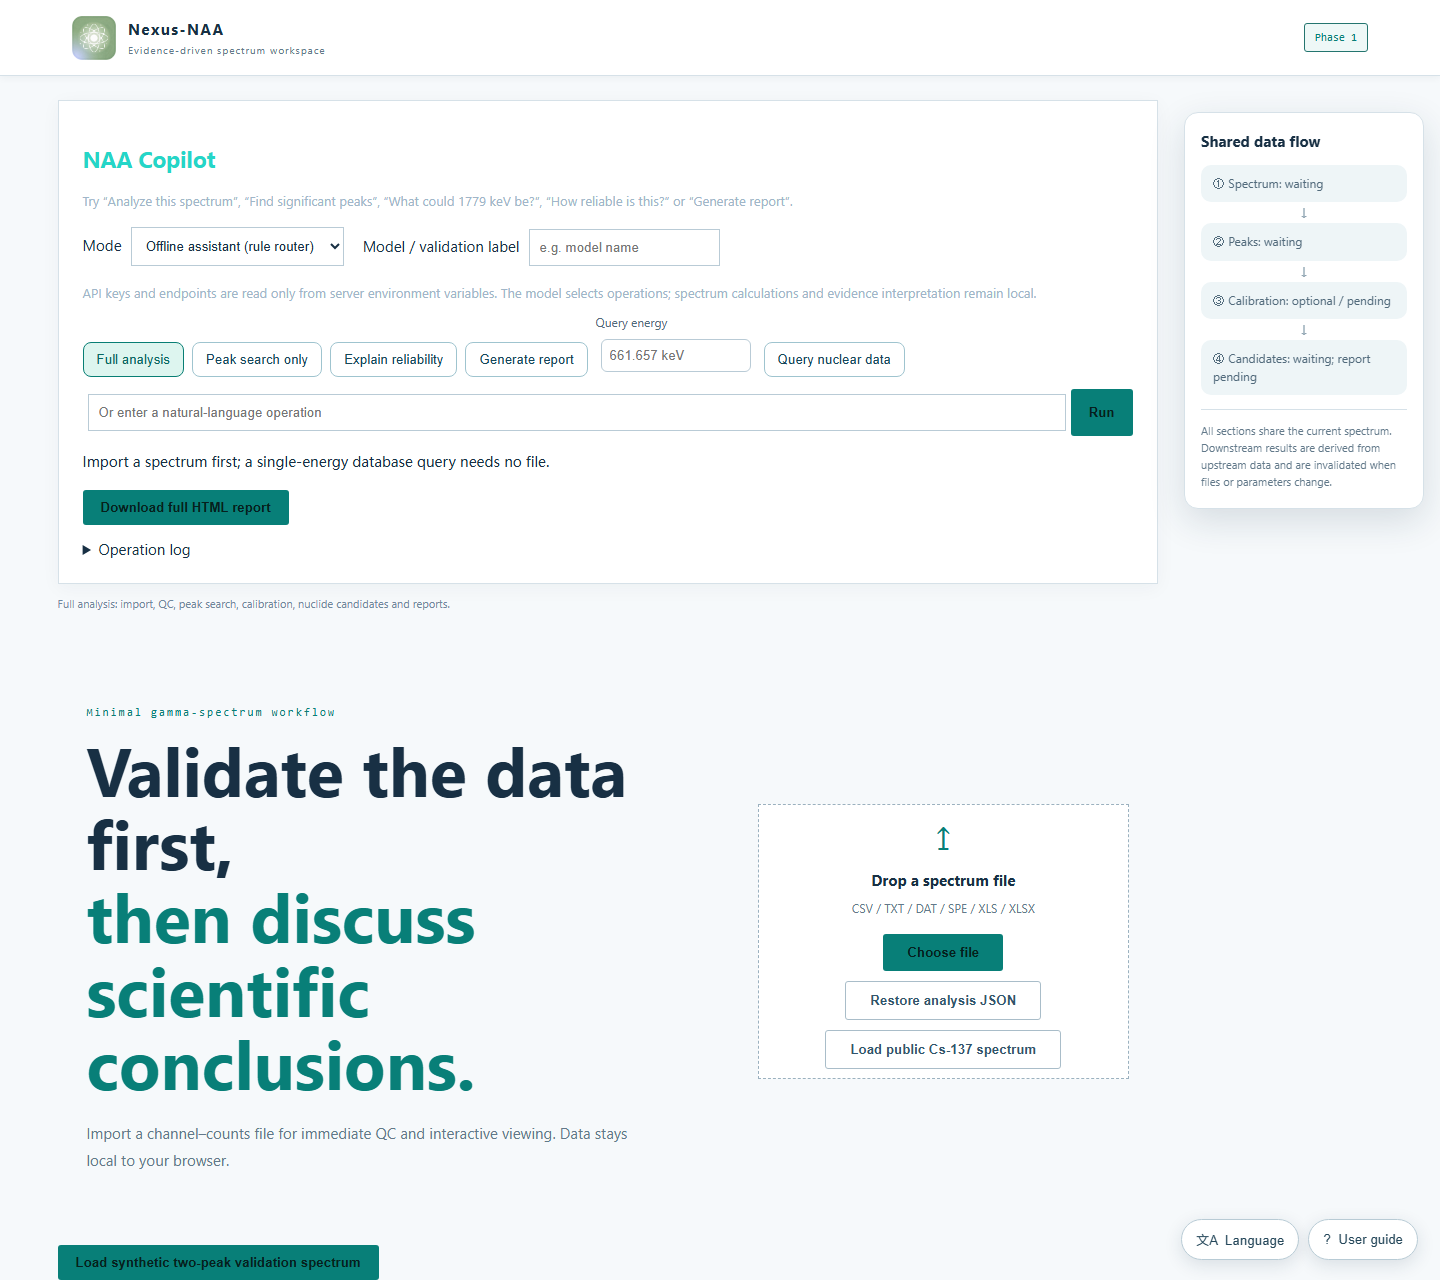
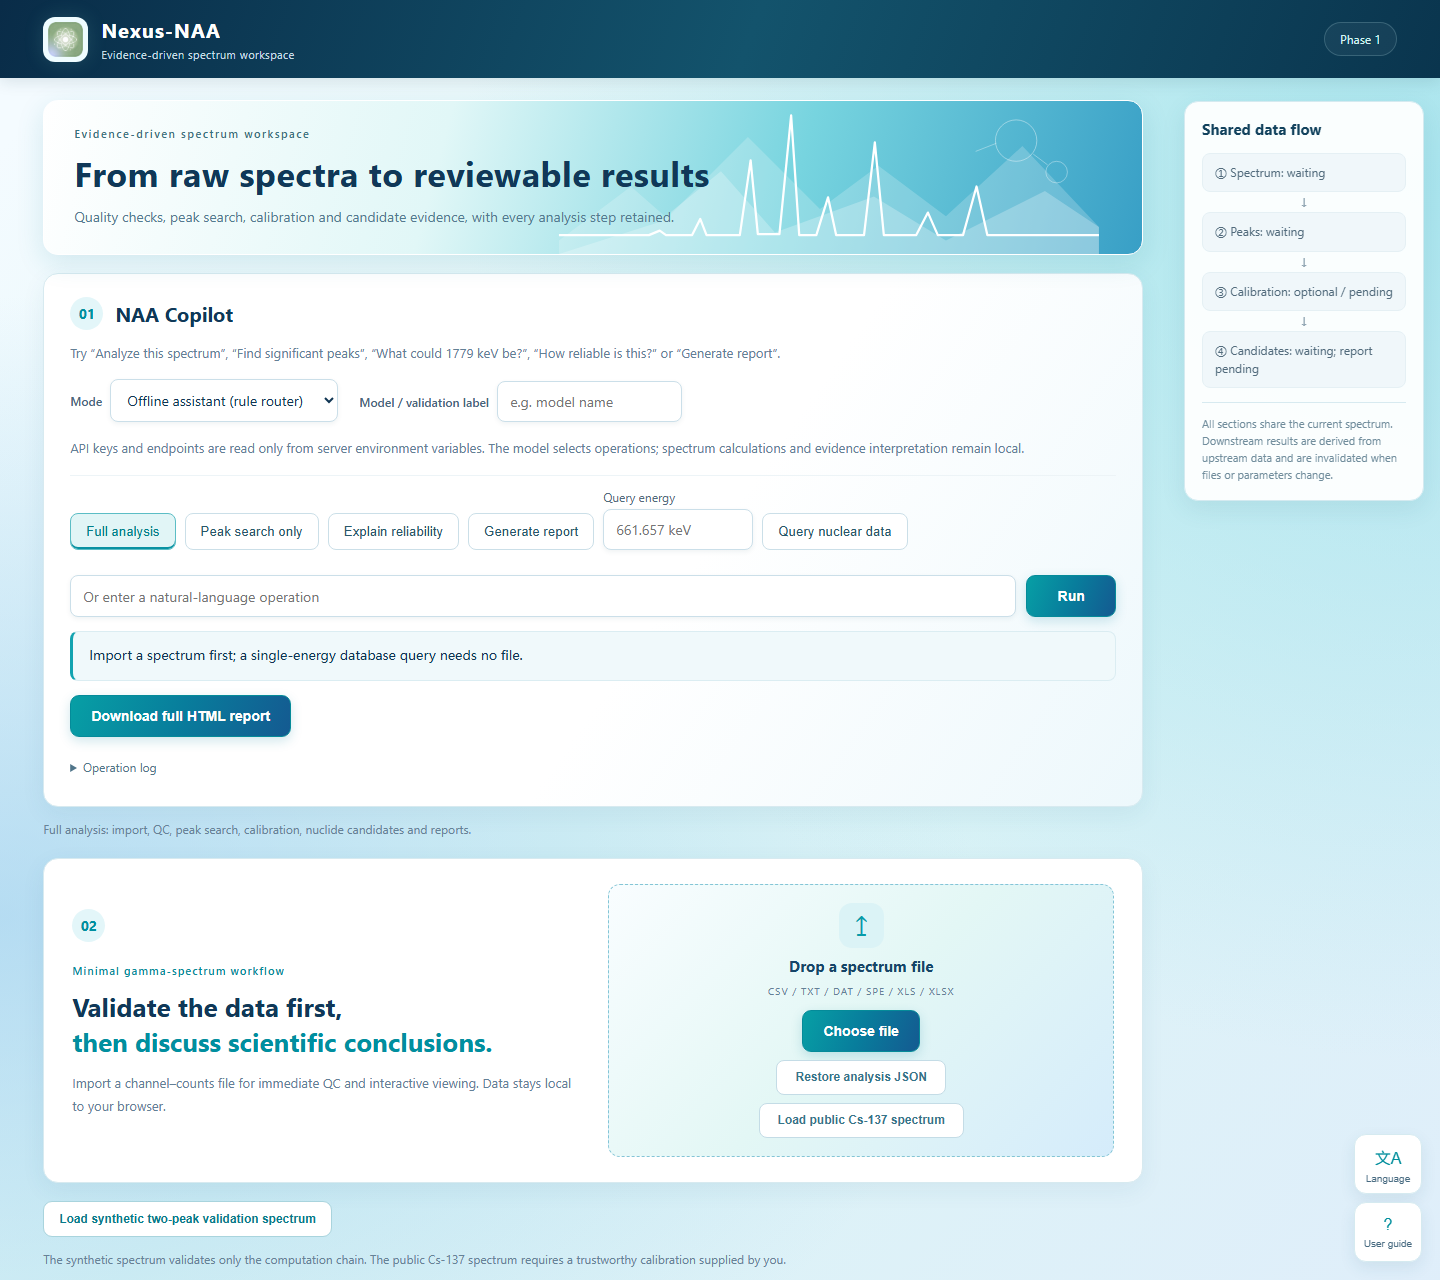
Refresh visual theme and bilingual workbench previews

diff --git a/light-theme.css b/light-theme.css
@@ -25,3 +25,41 @@ body{background:#f6f9fb;color:var(--text)}header{background:#fff;border-color:va
 }
 @media(prefers-reduced-motion:reduce){.data-flow{transition:none}}
 .brand-icon{display:block;width:44px;height:44px;object-fit:contain;flex-shrink:0}
+/* Presentation only: scientific calculations and task visibility remain unchanged. */
+:root{--bg:#f0f8fc;--panel:#fff;--line:#d7eaf0;--cyan:#058b99;--blue:#14638e;--text:#103553;--muted:#638096;--warn:#b46a16}
+body{background:radial-gradient(ellipse at 92% 20%,#cceff2a0,transparent 42%),radial-gradient(ellipse at 0 70%,#d6edf8b0,transparent 45%),#f3f9fc;font-family:"Segoe UI","Microsoft YaHei",sans-serif;font-size:14px}
+header{height:78px;background:linear-gradient(110deg,#0d314c,#123c56 65%,#0c3048);border:0;box-shadow:0 3px 15px #173d4d22;padding:0 3vw;color:#fff}
+.brand{gap:13px}.brand-icon{width:45px;height:45px;background:#effcff;border-radius:12px;padding:5px;box-shadow:0 0 20px #8ae5d326}.brand b{font-size:20px;letter-spacing:1px}.brand small{font-size:11px;color:#c6dce6;letter-spacing:.4px}.phase{border:1px solid #719caa60;background:#ffffff0c;color:#d3f2f3;border-radius:30px;padding:8px 15px;font:12px "Segoe UI",sans-serif}
+main{width:min(1400px,92vw);margin:0 auto;padding-top:22px}
+.workbench-banner{position:relative;overflow:hidden;min-height:155px;background:linear-gradient(105deg,#fff 5%,#e9f8fa 46%,#8bd5e3);border:1px solid #fff;border-radius:15px;padding:25px 30px;box-shadow:0 8px 24px #25667b12}
+.banner-copy{position:relative;z-index:1;width:70%}.banner-copy .eyebrow{font:600 11px "Segoe UI",sans-serif;letter-spacing:1.5px;margin:0 0 10px;color:#387080}.banner-copy h1{margin:0 0 10px;font-size:clamp(23px,2.6vw,34px);line-height:1.3;letter-spacing:.5px;color:#103858}.banner-copy>p:last-child{margin:0;font-size:14px;line-height:1.65;color:#537b91}.banner-spectrum{position:absolute;width:57%;height:100%;right:0;bottom:0;pointer-events:none}
+.copilot,.chart-card,.status-card,.stats-card,.control-card,.peaks-card,.identify-card{border:1px solid var(--line);border-radius:15px;box-shadow:0 7px 24px #1f617511;background:linear-gradient(125deg,#fff,#fff 75%,#f8fcfd)}
+.copilot{padding:23px 26px;margin-top:18px}.copilot h2,.control-card h2,.peaks-card h2,.identify-head h2,.card-title h2{color:#103858;font-size:20px;line-height:1.45}.copilot h2{margin:0 0 12px;display:flex;align-items:center;gap:12px}.copilot h2::before,.hero>div:first-child::before,.control-card>h2::before,.peaks-card h2::before,.identify-head h2::before{display:inline-grid;place-items:center;flex-shrink:0;width:33px;height:33px;border-radius:50%;background:#e3f6f9;color:#008fa0;font:700 14px "Segoe UI",sans-serif;letter-spacing:0;vertical-align:middle;margin-right:8px}
+.copilot h2::before{content:"01";margin-right:0}.hero>div:first-child::before{content:"02";margin-bottom:10px}.control-card>h2::before{content:"03"}.peaks-card h2::before{content:"04"}.identify-head h2::before{content:"05"}
+.copilot p{color:var(--muted);line-height:1.7;margin:10px 0}.model-controls{gap:16px}.model-controls label{font-size:12px;font-weight:600;color:#47657b}.copilot input,.copilot select,.control-card input[type=number],.control-card select,.control-card textarea,.match-controls input,.direct-query input,.database-tools input{border:1px solid #cbdfe9;border-radius:8px;background:#fff;color:var(--text);padding:10px 12px;font:14px "Segoe UI","Microsoft YaHei",sans-serif;box-shadow:0 2px 5px #153e5610;min-height:40px}
+input:focus-visible,select:focus-visible,textarea:focus-visible,button:focus-visible,summary:focus-visible,a:focus-visible{outline:3px solid #09a6b260;outline-offset:3px}
+.quick-actions{padding:13px 0;border-top:1px solid #edf4f7;margin-top:16px;gap:9px}.quick-actions button{border-color:#cbdfe8;border-radius:8px;color:#27576b;padding:10px 15px;transition:background .15s,border-color .15s}.quick-actions button[aria-pressed=true]{color:#007f8a;background:#e1f5f6;border-color:#5bbdc5;box-shadow:inset 0 -2px #0992a2}
+.quick-actions input{margin:0}.copilot form{gap:10px}.copilot form input{margin:0}.primary,.drop button:not(.ghost){background:linear-gradient(115deg,#14aabc,#007b8c);border:1px solid #058b99;color:#fff;border-radius:9px;min-height:42px;padding:11px 20px;box-shadow:0 4px 10px #078e9d26;font-weight:600;font-size:14px}.primary:hover,.drop button:not(.ghost):hover{background:linear-gradient(115deg,#049cac,#006c7e)}.primary.secondary{background:linear-gradient(115deg,#248baa,#14638e);border-color:#247b9d}.copilot form .primary{min-width:90px}
+.copilot pre#answer{background:#f0f9fb;border:1px solid #dbedf2;border-left:3px solid #13a3b0;border-radius:8px;padding:12px 16px;font-size:13px;line-height:1.8;margin:14px 0}.copilot details{color:#50758a;font-size:12px}.copilot details summary{cursor:pointer;padding:8px 0}.manual-panel{border-radius:10px;background:#f4fafc}.manual-panel textarea{border-radius:8px}
+.hero{background:#fff;border:1px solid var(--line);border-radius:15px;padding:25px 28px;gap:30px;margin:18px 0;box-shadow:0 7px 24px #1f617511;grid-template-columns:1fr 1fr;align-items:center}.hero h1{font-size:26px;line-height:1.35;margin:6px 0 12px;color:#103858}.hero h1 span{color:#008f9f}.hero p:not(.eyebrow){font-size:13px;line-height:1.75}.hero .eyebrow{font:600 11px "Segoe UI",sans-serif;letter-spacing:1px}.drop{border:1px dashed #84c5d6;border-radius:12px;background:linear-gradient(130deg,#f6fcff,#eef9fa);min-height:260px;padding:18px;gap:8px}.upload-icon{background:#dbf3f6;width:45px;height:45px;border-radius:13px;display:grid;place-items:center;font-size:28px;color:#079baa}.drop b{color:#164568;font-size:15px}.drop span{font-size:10px;letter-spacing:1px}.drop button{margin-top:4px;font-size:12px;min-height:35px;padding:8px 18px}.drop .ghost{background:#fff;border:1px solid #c4dce6;color:#36758b;border-radius:8px}.drop.drag{background:#e0f6f7;transform:none}
+#syntheticDemo{font-size:12px;min-height:36px;background:#fff;color:#087b8c;box-shadow:none;border-color:#a9d4dd;padding:8px 15px}#taskHint:empty{display:none}.method-note{color:#668297;font:12px/1.75 "Segoe UI","Microsoft YaHei",sans-serif}
+.workspace{border:0;padding-top:18px}.toolbar{background:#eaf7fa;border:1px solid #cce6ed;border-radius:9px;padding:12px 16px;gap:12px}.toolbar b{font-size:13px}.toolbar small{font-size:11px}.dot{box-shadow:0 0 0 4px #049fab15;background:#049fab}button.tool{border-radius:7px;background:#fff;border:1px solid #cbdfe8;color:#357086;font:12px "Segoe UI",sans-serif;padding:9px 12px}.tool:disabled{opacity:.5}.grid{grid-template-columns:minmax(0,1fr) 275px;gap:16px}.chart-card,.status-card,.stats-card{padding:21px}.card-title small,article>small{font:600 10px "Segoe UI",sans-serif;letter-spacing:1.6px;color:#058c9e}.card-title h2{font-size:18px}.legend{font-size:11px}.canvas-wrap{height:365px}.hint{color:#7891a0}.status b{font-size:18px}.status>span{background:#def5f2}.check span{color:#365971;font-size:12px}.check em{font-size:10px}.stats{border:1px solid var(--line);border-radius:10px;overflow:hidden}.stats div{padding:13px 10px;background:#f7fcfd}.stats b{font:600 17px "Segoe UI",sans-serif;color:#15496a}.status-card,.stats-card{margin-bottom:16px}
+.analysis-grid{gap:16px;margin-top:16px}.control-card{padding:22px}.control-card label{font-size:12px;color:#466b80;align-items:center;gap:12px;margin:16px 0}.control-card input[type=number]{width:125px}.control-card input[type=checkbox]{accent-color:var(--cyan);width:17px;height:17px}.control-card select{max-width:100%;min-width:100px}.control-card textarea{font:12px/1.7 Consolas,monospace;min-height:118px}.control-card h2{margin:6px 0 14px}.cal-result{margin:14px 0 0;display:block;font:12px/1.7 "Segoe UI",sans-serif;color:#4b7d8e}.auto-cal{flex-wrap:wrap}.auto-cal label{min-width:180px}.auto-cal .tool{white-space:normal;max-width:100%}
+.peaks-card,.identify-card{margin:18px 0;padding:22px}.table-head{gap:15px;flex-wrap:wrap}.table-head h2{margin:6px 0 16px}.table-head h2 span{background:#e5f6f8;border:0;color:#008b99;font:600 12px "Segoe UI",sans-serif}.table-wrap{border:1px solid #d7eaf0;border-radius:9px;margin-top:8px}table{min-width:720px}th,td{font:12px/1.6 "Segoe UI",sans-serif;padding:12px 13px}th{background:#eaf6f8;color:#1a4e68;font-weight:600}td{color:#365c74;border-color:#e3eef3}tbody tr:nth-child(even){background:#f8fcfd}tbody tr:hover{background:#eff9fc}.no-data{color:#7c96a6;padding:36px}.identify-head{gap:20px;flex-wrap:wrap}.match-controls{flex-wrap:wrap}.direct-query{background:#f1f9fb;border-radius:8px;border:1px solid #d9ecf2;padding:12px;font-size:12px;flex-wrap:wrap}.direct-query span{font-size:10px}.match-group{border-radius:9px;overflow:visible;border-color:#d7eaf0}.match-group h3{background:#edf8fa;font:600 13px "Segoe UI",sans-serif;border-radius:9px 9px 0 0;border-color:#d7eaf0}.candidate{font:12px/1.65 "Segoe UI",sans-serif;grid-template-columns:120px 100px 65px 125px minmax(0,1fr);gap:10px;border-color:#e5f0f4}.candidate strong{color:#17455e}.candidate small{color:#66859a}.candidate a,.evidence-footer a{color:#008895}.candidate .status{border-radius:5px;font-size:11px}.candidate .supported{background:#ebfaf6;color:#008879;border-color:#8accc3}.candidate .tentative{color:#256eaa;border-color:#abcddd;background:#f1f8fc}.candidate .conflicting,.candidate .insufficient_evidence{color:#a65f11;background:#fff9ee;border-color:#e3c498}.evidence-footer{gap:10px;flex-wrap:wrap;font:11px "Segoe UI",sans-serif}
+.empty{margin:18px 0 30px;padding:30px 20px;background:#ffffffa0;border:1px dashed #c4e1eb;border-radius:14px;font-size:13px;color:#6e8e9f}.empty>span{background:#e4f4f8;border-radius:50%;width:38px;height:38px;display:grid;place-items:center;color:#1596a4;font-size:11px}.empty i{border-color:#c7e2eb;width:35px}
+.data-flow{top:101px;border-color:#d4eaf0;border-radius:14px;padding:17px;background:#ffffffee;box-shadow:0 8px 25px #1f617518}.data-flow .flow-header b{color:#13435e}.data-flow .flow-steps span{font-size:12px;background:#f0f7fa;border:1px solid #e5f0f4;border-radius:8px}.data-flow .flow-steps span.ready{background:#e1f5f3;border-color:#c1e8e2;color:#07786f}.data-flow p{color:#718d9c}.corner-tools{right:18px;bottom:18px;flex-direction:column;gap:8px}.corner-tools>button{border-radius:12px;width:68px;min-height:60px;padding:8px;font-size:16px;color:#008e9c;border:1px solid #d5eaf0;box-shadow:0 6px 16px #23647718}.corner-tools span{display:block;margin:4px 0 0;font-size:10px;color:#486b81}.corner-menu{right:78px;bottom:65px}.flow-toggle{border-radius:10px;color:#008794;border-color:#b8dce6}
+.guide-dialog{border:1px solid #d3e9ef;border-radius:15px;box-shadow:0 25px 70px #0b34484d}.guide-dialog::backdrop{background:#0e344e66;backdrop-filter:blur(3px)}.guide-head{background:linear-gradient(110deg,#f6fcfd,#eaf7fa);border-color:#d7eaf0}.guide-head h2{font-size:20px;color:#164666}.guide-head button{color:#527b8e}.guide-dialog h3{font-size:15px}.guide-dialog p,.guide-dialog li{font-size:13px}.database-table-wrap th{background:#eaf6f8}.database-table-wrap a{color:#008799;text-underline-offset:3px}.database-tools{background:#f8fcfd}.toast{z-index:60;border-radius:10px}.tip{border-radius:7px;border-color:#aecfdd}footer{border-color:#d8eaf1;color:#6f8a9b;padding:20px 90px 25px;font-size:11px}footer a{color:#078996;text-underline-offset:3px}
+@media(min-width:1200px){main{width:min(1400px,calc(100vw - 340px));margin-left:max(3vw,calc((100vw - 1740px)/2));margin-right:auto}}
+@media(max-width:1199px){.data-flow{top:auto;bottom:160px}.flow-toggle{bottom:160px}.banner-copy{width:78%}.banner-spectrum{opacity:.65}.grid{grid-template-columns:minmax(0,1fr) 255px}.candidate{grid-template-columns:100px 80px 60px 120px minmax(0,1fr)}}
+@media(max-width:850px){header{height:70px;padding:0 4vw}.brand b{font-size:17px}.brand small{font-size:9px}.phase{font-size:10px;padding:6px 10px}main{width:92vw;padding-top:16px}.workbench-banner{padding:22px;min-height:150px}.banner-copy{width:90%}.banner-spectrum{opacity:.35;width:75%}.banner-copy h1{font-size:25px}.banner-copy>p:last-child{font-size:12px}.copilot{padding:20px}.model-controls{align-items:stretch}.model-controls label{display:flex;flex-direction:column;flex:1;min-width:180px}.model-controls input,.model-controls select{margin:5px 0}.quick-actions label{width:100%}.quick-actions input{width:100%}.hero{grid-template-columns:1fr;gap:16px;padding:23px}.hero h1{font-size:24px}.drop{min-height:240px}.grid{grid-template-columns:1fr}.grid>aside{display:grid;grid-template-columns:1fr 1fr;gap:16px}.status-card,.stats-card{margin-bottom:0}.canvas-wrap{height:330px}.candidate{grid-template-columns:1fr 1fr}.control-card,.peaks-card,.identify-card{padding:20px}.empty{gap:10px;flex-wrap:wrap}.empty p{flex-basis:100%;text-align:center;order:-1}.empty i{width:22px}.corner-tools{right:10px;bottom:12px}.corner-tools>button{width:54px;min-height:54px}.corner-tools span{display:block}.corner-menu{right:64px;bottom:55px}}
+@media(max-width:520px){.brand-icon{width:36px;height:36px}.brand small{letter-spacing:0}.phase{max-width:105px;text-align:center}.grid>aside{grid-template-columns:1fr}.copilot h2{font-size:18px}.copilot form{gap:6px}.copilot form .primary{min-width:62px;padding:10px}.quick-actions button{flex:1;padding:10px;font-size:12px}.toolbar{align-items:stretch;flex-direction:column}.toolbar>div:last-child{display:flex;flex-wrap:wrap;gap:6px}.toolbar .tool{margin:0}.card-title{flex-wrap:wrap;gap:8px}.control-card label{grid-template-columns:minmax(0,1fr) auto}.control-card select{max-width:200px;font-size:12px}.control-card input[type=number]{width:90px}.auto-cal select{max-width:100%}.control-card>h2,.peaks-card h2,.identify-head h2{font-size:18px}.table-head .tool{margin:3px 3px 3px 0}.match-controls input{width:100px}.database-tools{padding:16px}.guide-head{padding:16px}.data-flow{bottom:144px}.flow-toggle{bottom:144px}footer{padding:18px 65px 25px 18px;line-height:1.8}}
+/* Stronger cyan-to-blue accents; keep data surfaces close to white. */
+body{background:radial-gradient(ellipse at 100% 12%,#8edce9a6,transparent 48%),radial-gradient(ellipse at 0 62%,#99cceea0,transparent 48%),linear-gradient(135deg,#f4fbff 5%,#dbf5f5 48%,#e0edfb 100%)}
+header{background:linear-gradient(110deg,#092c48 0%,#13536c 52%,#0a354e 100%)}
+.workbench-banner{background:linear-gradient(105deg,#fff 0%,#e1f7f7 36%,#77d4df 68%,#389fc6 100%);box-shadow:0 8px 28px #167d9824}
+.copilot,.chart-card,.status-card,.stats-card,.control-card,.peaks-card,.identify-card{background:linear-gradient(125deg,#fff 0%,#fff 58%,#edf8fc 100%)}
+.drop{background:linear-gradient(135deg,#f9fdff 0%,#e3f7f5 50%,#d5ecfb 100%)}
+.primary,.drop button:not(.ghost){background:linear-gradient(110deg,#079fa5 0%,#087d9c 50%,#145a91 100%);box-shadow:0 4px 12px #087d9c30}
+.primary:hover,.drop button:not(.ghost):hover{background:linear-gradient(110deg,#078c90 0%,#066d8b 50%,#104b7d 100%)}
+.primary.secondary{background:linear-gradient(110deg,#1592a7,#215e9b)}
+@media(prefers-reduced-motion:reduce){*,*::before,*::after{transition:none!important;scroll-behavior:auto!important}}

diff --git a/index.html b/index.html
@@ -7,6 +7,7 @@
 <body>
   <header><div class="brand"><img class="brand-icon" src="assets/nexus-naa-skill-icon.png" width="44" height="44" alt="Nexus-NAA"><div><b>Nexus-NAA</b><small>证据驱动能谱工作区</small></div></div><span class="phase" id="phase" title="当前分析进度">第一阶段</span></header>
   <main>
+    <section class="workbench-banner" aria-labelledby="bannerTitle"><div class="banner-copy"><p class="eyebrow">证据驱动能谱工作区</p><h1 id="bannerTitle">从原始谱线到可复核结果</h1><p>质量检查、寻峰、标定与候选证据，保留每一步分析记录。</p></div><svg class="banner-spectrum" viewBox="0 0 600 170" fill="none" aria-hidden="true"><path d="M0 155L80 95L120 130L210 40L290 120L355 72L430 128L515 50L600 140V170H0Z" fill="#ffffff" opacity=".2"/><path d="M0 170L110 135L180 78L240 146L350 106L430 155L540 100L600 140V170Z" fill="#ffffff" opacity=".25"/><path d="M0 149H100L112 144L119 149H148L157 131L164 149H201L213 66L221 148H245L258 16L267 149H286L299 107L308 149H339L351 46L361 149H397L410 124L421 149H449L464 95L476 149H600" stroke="white" stroke-width="2.5" stroke-linejoin="round"/><circle cx="508" cy="44" r="23" stroke="white" opacity=".45"/><circle cx="553" cy="79" r="12" stroke="white" opacity=".4"/><path d="M527 59L543 71M486 47L463 56" stroke="white" opacity=".4"/></svg></section>
     <section class="copilot"><h2>中子活化分析助手</h2><p>输入“分析这张谱”“找出显著峰”“1779 keV 可能是什么”“这个判断可靠吗”或“生成报告”。</p>
       <div class="model-controls"><label>运行方式 <select id="assistantMode"><option value="offline">离线操作助手（规则路由）</option><option value="manual">手动真实模型验证</option><option value="ollama">Ollama</option><option value="openai-compatible">OpenAI-compatible API</option><option value="anthropic">Anthropic API</option><option value="gemini">Gemini API</option></select></label><label>模型名/验证标签 <input id="modelName" maxlength="200" placeholder="例如模型名称"></label></div>
       <p>API 密钥及地址只从服务端环境变量读取。模型只选择操作；核谱计算和证据解释仍由本地工具完成。</p><div class="quick-actions" aria-label="快捷操作"><button type="button" data-command="分析这张谱">完整分析</button><button type="button" data-command="找出显著峰">仅寻峰</button><button type="button" data-command="这个判断可靠吗">解释可靠性</button><button type="button" data-command="生成报告">生成报告</button><label>查询能量 <input id="quickEnergy" type="number" min="0.001" step="0.001" placeholder="661.657 keV"></label><button type="button" id="quickQuery">查询核数据</button></div><form id="assistantForm"><input id="prompt" aria-label="向助手提问" placeholder="也可以输入自然语言操作" required maxlength="4000"><button id="send" class="primary">执行</button></form>

diff --git a/src/i18n.js b/src/i18n.js
@@ -1,4 +1,6 @@
 const translations = new Map(Object.entries({
+  '从原始谱线到可复核结果':'From raw spectra to reviewable results',
+  '质量检查、寻峰、标定与候选证据，保留每一步分析记录。':'Quality checks, peak search, calibration and candidate evidence, with every analysis step retained.',
   '质检':'QC','OpenAI 兼容 API':'OpenAI-compatible API',
   '文件可读取':'Readable file','计数有效':'Valid counts','全部为有限非负数':'All counts are finite and non-negative','通道唯一且递增':'Unique, increasing channels','数据提示':'Data warnings',
   '已载入确定性合成验证谱，参考标定来自生成公式 E=C。输入“分析这张谱”验证完整流程。':'Loaded the deterministic synthetic spectrum with reference calibration E=C. Enter “Analyze this spectrum” to test the workflow.',

diff --git a/README_EN.md b/README_EN.md
@@ -16,6 +16,7 @@ Nexus-NAA is an evidence-driven gamma-spectrum analysis agent for neutron activa
 
 ## Changelog
 
+- **V1.3 visual update (2026-10-01):** Added the “From raw spectra to reviewable results” banner and spectrum artwork, with a dark-blue header, cyan-to-blue buttons and light cards. Refined the desktop data-flow panel, mobile layout, keyboard focus and reduced-motion behavior. Regenerated both language screenshots.
 - **V1.3 interface update (2026-10-01):** Workspaces now follow the selected task: full analysis, peak search, reliability review, reporting, or nuclear-data lookup. Peak settings and help follow the detection mode, and hidden settings do not supply that mode's input. Simplified page titles and phase labels, updated bilingual interface text and the source name of the user-provided nuclear data. Replaced the icon with the supplied green atom artwork, removed its exterior white background, and refreshed the header, browser icon, and workbench screenshots.
 - **V1.3 (2026-09-24):** Broad tolerance retains candidates; a narrower support window and line-independence checks determine `supported` status. Added canonical JSON SHA-256 analysis fingerprints and an executable identification quality gate. Refreshed the screenshot from the running V1.3 interface.
 - **V1.2:** Reconstructed and checked complete nuclide evidence before reporting; enforced Ajv 8 JSON Schemas at CLI, HTTP, and MCP boundaries; added same-snapshot reporting, host-behavior evaluation, and a three-system reference-spectrum comparison.

diff --git a/README.md b/README.md
@@ -18,6 +18,7 @@ Nexus-NAA is an evidence-driven gamma-spectrum analysis agent for neutron activa
 
 ## 更新日志
 
+- **V1.3 视觉更新（2026-10-01）**：新增“从原始谱线到可复核结果”横幅和谱线装饰，采用深蓝页眉、青蓝渐变按钮与浅色卡片；调整桌面共享数据流位置、移动端布局、键盘焦点和减少动态效果设置。中英页面截图已重新生成。
 - **V1.3 页面更新（2026-10-01）**：按完整分析、仅寻峰、可靠性复核、报告和核数据查询切换工作区；寻峰参数与说明随检测模式显示，隐藏参数不参与当前模式输入。简化页面标题和阶段标签，更新中英界面文案及用户提供核数据的来源名称。替换为用户提供的绿色原子图标，去除外部白色背景，并更新页眉、浏览器图标与最新页面截图。
 - **V1.3（2026-09-24）**：宽容差用于保留候选，窄支持窗与谱线独立性审查决定能否标为 `supported`；新增规范化 JSON 的 SHA-256 分析指纹和识别质量失败门槛。页面截图已更新为 V1.3 实际运行界面。
 - **V1.2**：报告前重建并核对完整核素证据；用 Ajv 8 在 CLI、HTTP、MCP 入口执行 JSON Schema；增加同一快照报告、宿主行为评测与三系统参考谱对照。
